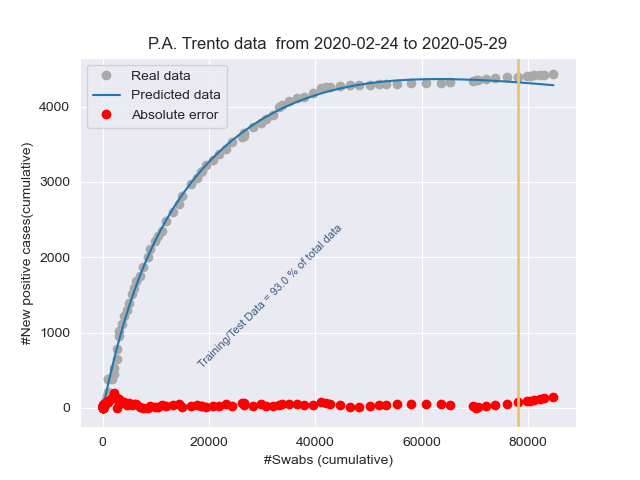
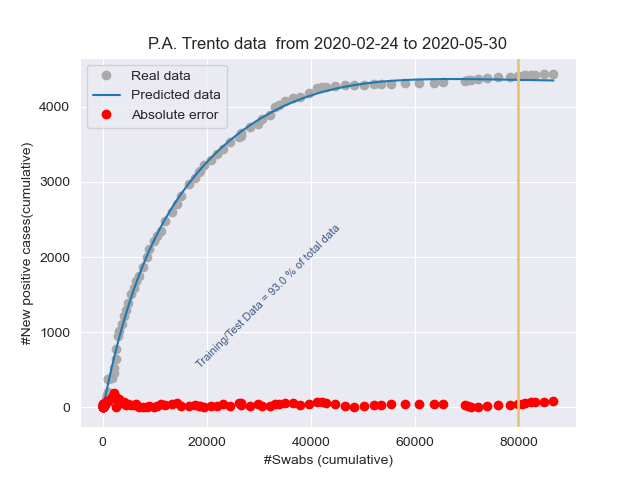
Add files via upload

diff --git a/stat_Italy.html b/stat_Italy.html
@@ -1,1 +1,1 @@
-<!DOCTYPE html><html lang="it"><head><title>Results</title><meta charset="utf-8"><meta name="viewport" content="width=device-width, initial-scale=1"><link rel="stylesheet" href="bootstrap.min.css"><script src="https://ajax.googleapis.com/ajax/libs/jquery/3.4.1/jquery.min.js"></script><script src="https://maxcdn.bootstrapcdn.com/bootstrap/3.4.1/js/bootstrap.min.js"></script></head><body><h3>Day: 2020-05-29</h3><p class="lead my-3">New positive cases: <b>516</b></p><p class="lead my-3">Number of swabs: <b>72135.0</b></p><p class="lead my-3">Postive cases/Swabs: <b>0.72 %</b></p><p class="lead my-3">Number of people admitted to Intensive care: <b>475</b></p><p class="lead my-3">Number of recovered people: <b>2240.0</b></p><p class="lead my-3">Number of dead people: <b>87.0</b></p></body></html>
+<!DOCTYPE html><html lang="it"><head><title>Results</title><meta charset="utf-8"><meta name="viewport" content="width=device-width, initial-scale=1"><link rel="stylesheet" href="bootstrap.min.css"><script src="https://ajax.googleapis.com/ajax/libs/jquery/3.4.1/jquery.min.js"></script><script src="https://maxcdn.bootstrapcdn.com/bootstrap/3.4.1/js/bootstrap.min.js"></script></head><body><h3>Day: 2020-05-30</h3><p class="lead my-3">New positive cases: <b>416</b></p><p class="lead my-3">Number of swabs: <b>69342.0</b></p><p class="lead my-3">Postive cases/Swabs: <b>0.6 %</b></p><p class="lead my-3">Number of people admitted to Intensive care: <b>450</b></p><p class="lead my-3">Number of recovered people: <b>2789.0</b></p><p class="lead my-3">Number of dead people: <b>111.0</b></p></body></html>

diff --git a/stat_Lombardia.html b/stat_Lombardia.html
@@ -1,1 +1,1 @@
-<!DOCTYPE html><html lang="it"><head><title>Results</title><meta charset="utf-8"><meta name="viewport" content="width=device-width, initial-scale=1"><link rel="stylesheet" href="bootstrap.min.css"><script src="https://ajax.googleapis.com/ajax/libs/jquery/3.4.1/jquery.min.js"></script><script src="https://maxcdn.bootstrapcdn.com/bootstrap/3.4.1/js/bootstrap.min.js"></script></head><body><h3>Day: 2020-05-29</h3><p class="lead my-3">New positive cases: <b>354</b></p><p class="lead my-3">Number of swabs: <b>14078.0</b></p><p class="lead my-3">Postive cases/Swabs: <b>2.51 %</b></p><p class="lead my-3">Number of people admitted to Intensive care: <b>173</b></p><p class="lead my-3">Number of recovered people: <b>546.0</b></p><p class="lead my-3">Number of dead people: <b>38.0</b></p></body></html>
+<!DOCTYPE html><html lang="it"><head><title>Results</title><meta charset="utf-8"><meta name="viewport" content="width=device-width, initial-scale=1"><link rel="stylesheet" href="bootstrap.min.css"><script src="https://ajax.googleapis.com/ajax/libs/jquery/3.4.1/jquery.min.js"></script><script src="https://maxcdn.bootstrapcdn.com/bootstrap/3.4.1/js/bootstrap.min.js"></script></head><body><h3>Day: 2020-05-30</h3><p class="lead my-3">New positive cases: <b>221</b></p><p class="lead my-3">Number of swabs: <b>14301.0</b></p><p class="lead my-3">Postive cases/Swabs: <b>1.55 %</b></p><p class="lead my-3">Number of people admitted to Intensive care: <b>172</b></p><p class="lead my-3">Number of recovered people: <b>1028.0</b></p><p class="lead my-3">Number of dead people: <b>67.0</b></p></body></html>

diff --git a/stat_Emilia-Romagna.html b/stat_Emilia-Romagna.html
@@ -1,1 +1,1 @@
-<!DOCTYPE html><html lang="it"><head><title>Results</title><meta charset="utf-8"><meta name="viewport" content="width=device-width, initial-scale=1"><link rel="stylesheet" href="bootstrap.min.css"><script src="https://ajax.googleapis.com/ajax/libs/jquery/3.4.1/jquery.min.js"></script><script src="https://maxcdn.bootstrapcdn.com/bootstrap/3.4.1/js/bootstrap.min.js"></script></head><body><h3>Day: 2020-05-29</h3><p class="lead my-3">New positive cases: <b>38</b></p><p class="lead my-3">Number of swabs: <b>6213.0</b></p><p class="lead my-3">Postive cases/Swabs: <b>0.61 %</b></p><p class="lead my-3">Number of people admitted to Intensive care: <b>76</b></p><p class="lead my-3">Number of recovered people: <b>216.0</b></p><p class="lead my-3">Number of dead people: <b>8.0</b></p></body></html>
+<!DOCTYPE html><html lang="it"><head><title>Results</title><meta charset="utf-8"><meta name="viewport" content="width=device-width, initial-scale=1"><link rel="stylesheet" href="bootstrap.min.css"><script src="https://ajax.googleapis.com/ajax/libs/jquery/3.4.1/jquery.min.js"></script><script src="https://maxcdn.bootstrapcdn.com/bootstrap/3.4.1/js/bootstrap.min.js"></script></head><body><h3>Day: 2020-05-30</h3><p class="lead my-3">New positive cases: <b>20</b></p><p class="lead my-3">Number of swabs: <b>4464.0</b></p><p class="lead my-3">Postive cases/Swabs: <b>0.45 %</b></p><p class="lead my-3">Number of people admitted to Intensive care: <b>65</b></p><p class="lead my-3">Number of recovered people: <b>300.0</b></p><p class="lead my-3">Number of dead people: <b>5.0</b></p></body></html>

diff --git a/stat_Lazio.html b/stat_Lazio.html
@@ -1,1 +1,1 @@
-<!DOCTYPE html><html lang="it"><head><title>Results</title><meta charset="utf-8"><meta name="viewport" content="width=device-width, initial-scale=1"><link rel="stylesheet" href="bootstrap.min.css"><script src="https://ajax.googleapis.com/ajax/libs/jquery/3.4.1/jquery.min.js"></script><script src="https://maxcdn.bootstrapcdn.com/bootstrap/3.4.1/js/bootstrap.min.js"></script></head><body><h3>Day: 2020-05-29</h3><p class="lead my-3">New positive cases: <b>16</b></p><p class="lead my-3">Number of swabs: <b>3274.0</b></p><p class="lead my-3">Postive cases/Swabs: <b>0.49 %</b></p><p class="lead my-3">Number of people admitted to Intensive care: <b>59</b></p><p class="lead my-3">Number of recovered people: <b>245.0</b></p><p class="lead my-3">Number of dead people: <b>13.0</b></p></body></html>
+<!DOCTYPE html><html lang="it"><head><title>Results</title><meta charset="utf-8"><meta name="viewport" content="width=device-width, initial-scale=1"><link rel="stylesheet" href="bootstrap.min.css"><script src="https://ajax.googleapis.com/ajax/libs/jquery/3.4.1/jquery.min.js"></script><script src="https://maxcdn.bootstrapcdn.com/bootstrap/3.4.1/js/bootstrap.min.js"></script></head><body><h3>Day: 2020-05-30</h3><p class="lead my-3">New positive cases: <b>6</b></p><p class="lead my-3">Number of swabs: <b>4121.0</b></p><p class="lead my-3">Postive cases/Swabs: <b>0.15 %</b></p><p class="lead my-3">Number of people admitted to Intensive care: <b>58</b></p><p class="lead my-3">Number of recovered people: <b>107.0</b></p><p class="lead my-3">Number of dead people: <b>7.0</b></p></body></html>

diff --git a/stat_Piemonte.html b/stat_Piemonte.html
@@ -1,1 +1,1 @@
-<!DOCTYPE html><html lang="it"><head><title>Results</title><meta charset="utf-8"><meta name="viewport" content="width=device-width, initial-scale=1"><link rel="stylesheet" href="bootstrap.min.css"><script src="https://ajax.googleapis.com/ajax/libs/jquery/3.4.1/jquery.min.js"></script><script src="https://maxcdn.bootstrapcdn.com/bootstrap/3.4.1/js/bootstrap.min.js"></script></head><body><h3>Day: 2020-05-29</h3><p class="lead my-3">New positive cases: <b>56</b></p><p class="lead my-3">Number of swabs: <b>5139.0</b></p><p class="lead my-3">Postive cases/Swabs: <b>1.09 %</b></p><p class="lead my-3">Number of people admitted to Intensive care: <b>61</b></p><p class="lead my-3">Number of recovered people: <b>457.0</b></p><p class="lead my-3">Number of dead people: <b>13.0</b></p></body></html>
+<!DOCTYPE html><html lang="it"><head><title>Results</title><meta charset="utf-8"><meta name="viewport" content="width=device-width, initial-scale=1"><link rel="stylesheet" href="bootstrap.min.css"><script src="https://ajax.googleapis.com/ajax/libs/jquery/3.4.1/jquery.min.js"></script><script src="https://maxcdn.bootstrapcdn.com/bootstrap/3.4.1/js/bootstrap.min.js"></script></head><body><h3>Day: 2020-05-30</h3><p class="lead my-3">New positive cases: <b>82</b></p><p class="lead my-3">Number of swabs: <b>6331.0</b></p><p class="lead my-3">Postive cases/Swabs: <b>1.3 %</b></p><p class="lead my-3">Number of people admitted to Intensive care: <b>60</b></p><p class="lead my-3">Number of recovered people: <b>443.0</b></p><p class="lead my-3">Number of dead people: <b>7.0</b></p></body></html>

diff --git a/stat_Veneto.html b/stat_Veneto.html
@@ -1,1 +1,1 @@
-<!DOCTYPE html><html lang="it"><head><title>Results</title><meta charset="utf-8"><meta name="viewport" content="width=device-width, initial-scale=1"><link rel="stylesheet" href="bootstrap.min.css"><script src="https://ajax.googleapis.com/ajax/libs/jquery/3.4.1/jquery.min.js"></script><script src="https://maxcdn.bootstrapcdn.com/bootstrap/3.4.1/js/bootstrap.min.js"></script></head><body><h3>Day: 2020-05-29</h3><p class="lead my-3">New positive cases: <b>9</b></p><p class="lead my-3">Number of swabs: <b>12925.0</b></p><p class="lead my-3">Postive cases/Swabs: <b>0.07 %</b></p><p class="lead my-3">Number of people admitted to Intensive care: <b>7</b></p><p class="lead my-3">Number of recovered people: <b>177.0</b></p><p class="lead my-3">Number of dead people: <b>8.0</b></p></body></html>
+<!DOCTYPE html><html lang="it"><head><title>Results</title><meta charset="utf-8"><meta name="viewport" content="width=device-width, initial-scale=1"><link rel="stylesheet" href="bootstrap.min.css"><script src="https://ajax.googleapis.com/ajax/libs/jquery/3.4.1/jquery.min.js"></script><script src="https://maxcdn.bootstrapcdn.com/bootstrap/3.4.1/js/bootstrap.min.js"></script></head><body><h3>Day: 2020-05-30</h3><p class="lead my-3">New positive cases: <b>12</b></p><p class="lead my-3">Number of swabs: <b>15102.0</b></p><p class="lead my-3">Postive cases/Swabs: <b>0.08 %</b></p><p class="lead my-3">Number of people admitted to Intensive care: <b>7</b></p><p class="lead my-3">Number of recovered people: <b>239.0</b></p><p class="lead my-3">Number of dead people: <b>10.0</b></p></body></html>

diff --git a/stat_Liguria.html b/stat_Liguria.html
@@ -1,1 +1,1 @@
-<!DOCTYPE html><html lang="it"><head><title>Results</title><meta charset="utf-8"><meta name="viewport" content="width=device-width, initial-scale=1"><link rel="stylesheet" href="bootstrap.min.css"><script src="https://ajax.googleapis.com/ajax/libs/jquery/3.4.1/jquery.min.js"></script><script src="https://maxcdn.bootstrapcdn.com/bootstrap/3.4.1/js/bootstrap.min.js"></script></head><body><h3>Day: 2020-05-29</h3><p class="lead my-3">New positive cases: <b>14</b></p><p class="lead my-3">Number of swabs: <b>1548.0</b></p><p class="lead my-3">Postive cases/Swabs: <b>0.9 %</b></p><p class="lead my-3">Number of people admitted to Intensive care: <b>13</b></p><p class="lead my-3">Number of recovered people: <b>158.0</b></p><p class="lead my-3">Number of dead people: <b>7.0</b></p></body></html>
+<!DOCTYPE html><html lang="it"><head><title>Results</title><meta charset="utf-8"><meta name="viewport" content="width=device-width, initial-scale=1"><link rel="stylesheet" href="bootstrap.min.css"><script src="https://ajax.googleapis.com/ajax/libs/jquery/3.4.1/jquery.min.js"></script><script src="https://maxcdn.bootstrapcdn.com/bootstrap/3.4.1/js/bootstrap.min.js"></script></head><body><h3>Day: 2020-05-30</h3><p class="lead my-3">New positive cases: <b>32</b></p><p class="lead my-3">Number of swabs: <b>2719.0</b></p><p class="lead my-3">Postive cases/Swabs: <b>1.18 %</b></p><p class="lead my-3">Number of people admitted to Intensive care: <b>9</b></p><p class="lead my-3">Number of recovered people: <b>238.0</b></p><p class="lead my-3">Number of dead people: <b>7.0</b></p></body></html>

diff --git a/stat_Toscana.html b/stat_Toscana.html
@@ -1,1 +1,1 @@
-<!DOCTYPE html><html lang="it"><head><title>Results</title><meta charset="utf-8"><meta name="viewport" content="width=device-width, initial-scale=1"><link rel="stylesheet" href="bootstrap.min.css"><script src="https://ajax.googleapis.com/ajax/libs/jquery/3.4.1/jquery.min.js"></script><script src="https://maxcdn.bootstrapcdn.com/bootstrap/3.4.1/js/bootstrap.min.js"></script></head><body><h3>Day: 2020-05-29</h3><p class="lead my-3">New positive cases: <b>2</b></p><p class="lead my-3">Number of swabs: <b>3365.0</b></p><p class="lead my-3">Postive cases/Swabs: <b>0.06 %</b></p><p class="lead my-3">Number of people admitted to Intensive care: <b>31</b></p><p class="lead my-3">Number of recovered people: <b>125.0</b></p><p class="lead my-3">Number of dead people: <b>2.0</b></p></body></html>
+<!DOCTYPE html><html lang="it"><head><title>Results</title><meta charset="utf-8"><meta name="viewport" content="width=device-width, initial-scale=1"><link rel="stylesheet" href="bootstrap.min.css"><script src="https://ajax.googleapis.com/ajax/libs/jquery/3.4.1/jquery.min.js"></script><script src="https://maxcdn.bootstrapcdn.com/bootstrap/3.4.1/js/bootstrap.min.js"></script></head><body><h3>Day: 2020-05-30</h3><p class="lead my-3">New positive cases: <b>12</b></p><p class="lead my-3">Number of swabs: <b>3389.0</b></p><p class="lead my-3">Postive cases/Swabs: <b>0.35 %</b></p><p class="lead my-3">Number of people admitted to Intensive care: <b>27</b></p><p class="lead my-3">Number of recovered people: <b>95.0</b></p><p class="lead my-3">Number of dead people: <b>6.0</b></p></body></html>

diff --git a/stat_Puglia.html b/stat_Puglia.html
@@ -1,1 +1,1 @@
-<!DOCTYPE html><html lang="it"><head><title>Results</title><meta charset="utf-8"><meta name="viewport" content="width=device-width, initial-scale=1"><link rel="stylesheet" href="bootstrap.min.css"><script src="https://ajax.googleapis.com/ajax/libs/jquery/3.4.1/jquery.min.js"></script><script src="https://maxcdn.bootstrapcdn.com/bootstrap/3.4.1/js/bootstrap.min.js"></script></head><body><h3>Day: 2020-05-29</h3><p class="lead my-3">New positive cases: <b>1</b></p><p class="lead my-3">Number of swabs: <b>2642.0</b></p><p class="lead my-3">Postive cases/Swabs: <b>0.04 %</b></p><p class="lead my-3">Number of people admitted to Intensive care: <b>12</b></p><p class="lead my-3">Number of recovered people: <b>109.0</b></p><p class="lead my-3">Number of dead people: <b>4.0</b></p></body></html>
+<!DOCTYPE html><html lang="it"><head><title>Results</title><meta charset="utf-8"><meta name="viewport" content="width=device-width, initial-scale=1"><link rel="stylesheet" href="bootstrap.min.css"><script src="https://ajax.googleapis.com/ajax/libs/jquery/3.4.1/jquery.min.js"></script><script src="https://maxcdn.bootstrapcdn.com/bootstrap/3.4.1/js/bootstrap.min.js"></script></head><body><h3>Day: 2020-05-30</h3><p class="lead my-3">New positive cases: <b>8</b></p><p class="lead my-3">Number of swabs: <b>2177.0</b></p><p class="lead my-3">Postive cases/Swabs: <b>0.37 %</b></p><p class="lead my-3">Number of people admitted to Intensive care: <b>12</b></p><p class="lead my-3">Number of recovered people: <b>69.0</b></p><p class="lead my-3">Number of dead people: <b>0.0</b></p></body></html>

diff --git a/stat_Campania.html b/stat_Campania.html
@@ -1,1 +1,1 @@
-<!DOCTYPE html><html lang="it"><head><title>Results</title><meta charset="utf-8"><meta name="viewport" content="width=device-width, initial-scale=1"><link rel="stylesheet" href="bootstrap.min.css"><script src="https://ajax.googleapis.com/ajax/libs/jquery/3.4.1/jquery.min.js"></script><script src="https://maxcdn.bootstrapcdn.com/bootstrap/3.4.1/js/bootstrap.min.js"></script></head><body><h3>Day: 2020-05-29</h3><p class="lead my-3">New positive cases: <b>10</b></p><p class="lead my-3">Number of swabs: <b>4601.0</b></p><p class="lead my-3">Postive cases/Swabs: <b>0.22 %</b></p><p class="lead my-3">Number of people admitted to Intensive care: <b>7</b></p><p class="lead my-3">Number of recovered people: <b>35.0</b></p><p class="lead my-3">Number of dead people: <b>1.0</b></p></body></html>
+<!DOCTYPE html><html lang="it"><head><title>Results</title><meta charset="utf-8"><meta name="viewport" content="width=device-width, initial-scale=1"><link rel="stylesheet" href="bootstrap.min.css"><script src="https://ajax.googleapis.com/ajax/libs/jquery/3.4.1/jquery.min.js"></script><script src="https://maxcdn.bootstrapcdn.com/bootstrap/3.4.1/js/bootstrap.min.js"></script></head><body><h3>Day: 2020-05-30</h3><p class="lead my-3">New positive cases: <b>10</b></p><p class="lead my-3">Number of swabs: <b>4364.0</b></p><p class="lead my-3">Postive cases/Swabs: <b>0.23 %</b></p><p class="lead my-3">Number of people admitted to Intensive care: <b>7</b></p><p class="lead my-3">Number of recovered people: <b>15.0</b></p><p class="lead my-3">Number of dead people: <b>0.0</b></p></body></html>

diff --git a/stat_Sicilia.html b/stat_Sicilia.html
@@ -1,1 +1,1 @@
-<!DOCTYPE html><html lang="it"><head><title>Results</title><meta charset="utf-8"><meta name="viewport" content="width=device-width, initial-scale=1"><link rel="stylesheet" href="bootstrap.min.css"><script src="https://ajax.googleapis.com/ajax/libs/jquery/3.4.1/jquery.min.js"></script><script src="https://maxcdn.bootstrapcdn.com/bootstrap/3.4.1/js/bootstrap.min.js"></script></head><body><h3>Day: 2020-05-29</h3><p class="lead my-3">New positive cases: <b>2</b></p><p class="lead my-3">Number of swabs: <b>3463.0</b></p><p class="lead my-3">Postive cases/Swabs: <b>0.06 %</b></p><p class="lead my-3">Number of people admitted to Intensive care: <b>7</b></p><p class="lead my-3">Number of recovered people: <b>10.0</b></p><p class="lead my-3">Number of dead people: <b>0.0</b></p></body></html>
+<!DOCTYPE html><html lang="it"><head><title>Results</title><meta charset="utf-8"><meta name="viewport" content="width=device-width, initial-scale=1"><link rel="stylesheet" href="bootstrap.min.css"><script src="https://ajax.googleapis.com/ajax/libs/jquery/3.4.1/jquery.min.js"></script><script src="https://maxcdn.bootstrapcdn.com/bootstrap/3.4.1/js/bootstrap.min.js"></script></head><body><h3>Day: 2020-05-30</h3><p class="lead my-3">New positive cases: <b>2</b></p><p class="lead my-3">Number of swabs: <b>2892.0</b></p><p class="lead my-3">Postive cases/Swabs: <b>0.07 %</b></p><p class="lead my-3">Number of people admitted to Intensive care: <b>7</b></p><p class="lead my-3">Number of recovered people: <b>139.0</b></p><p class="lead my-3">Number of dead people: <b>1.0</b></p></body></html>

diff --git a/stat_Marche.html b/stat_Marche.html
@@ -1,1 +1,1 @@
-<!DOCTYPE html><html lang="it"><head><title>Results</title><meta charset="utf-8"><meta name="viewport" content="width=device-width, initial-scale=1"><link rel="stylesheet" href="bootstrap.min.css"><script src="https://ajax.googleapis.com/ajax/libs/jquery/3.4.1/jquery.min.js"></script><script src="https://maxcdn.bootstrapcdn.com/bootstrap/3.4.1/js/bootstrap.min.js"></script></head><body><h3>Day: 2020-05-29</h3><p class="lead my-3">New positive cases: <b>4</b></p><p class="lead my-3">Number of swabs: <b>1279.0</b></p><p class="lead my-3">Postive cases/Swabs: <b>0.31 %</b></p><p class="lead my-3">Number of people admitted to Intensive care: <b>9</b></p><p class="lead my-3">Number of recovered people: <b>9.0</b></p><p class="lead my-3">Number of dead people: <b>-11.0</b></p></body></html>
+<!DOCTYPE html><html lang="it"><head><title>Results</title><meta charset="utf-8"><meta name="viewport" content="width=device-width, initial-scale=1"><link rel="stylesheet" href="bootstrap.min.css"><script src="https://ajax.googleapis.com/ajax/libs/jquery/3.4.1/jquery.min.js"></script><script src="https://maxcdn.bootstrapcdn.com/bootstrap/3.4.1/js/bootstrap.min.js"></script></head><body><h3>Day: 2020-05-30</h3><p class="lead my-3">New positive cases: <b>4</b></p><p class="lead my-3">Number of swabs: <b>1095.0</b></p><p class="lead my-3">Postive cases/Swabs: <b>0.37 %</b></p><p class="lead my-3">Number of people admitted to Intensive care: <b>9</b></p><p class="lead my-3">Number of recovered people: <b>8.0</b></p><p class="lead my-3">Number of dead people: <b>1.0</b></p></body></html>
